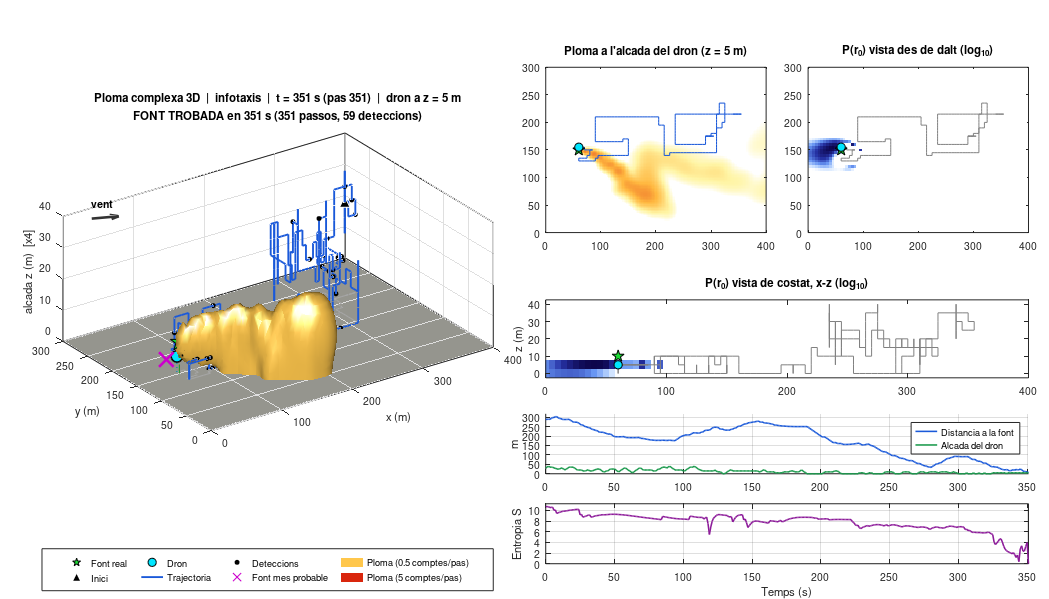
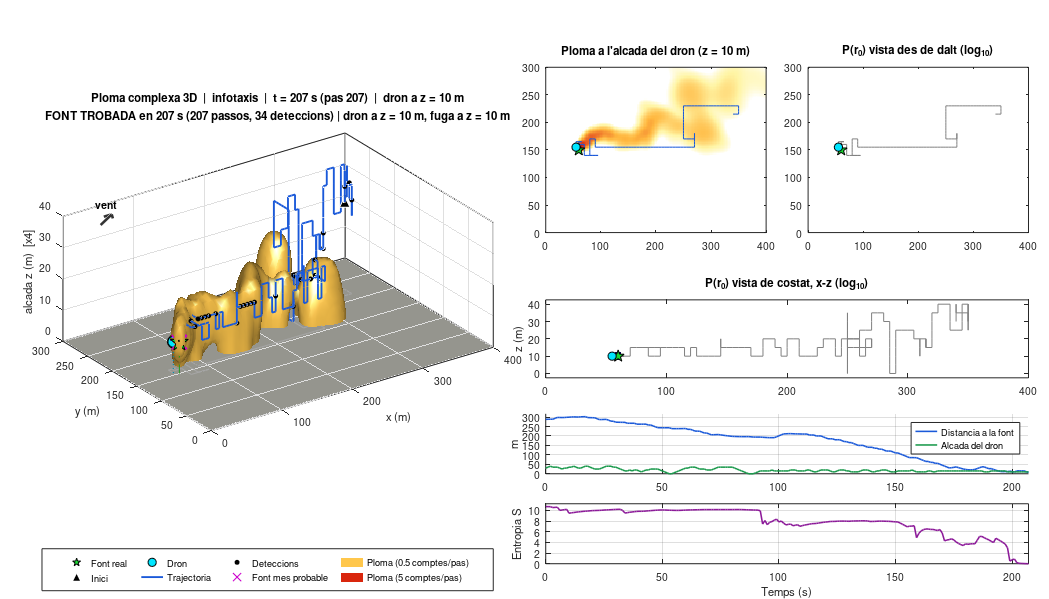
3D: el dron ha d'arribar a l'alcada de la fuga per trobar-la
Abans la fuga es donava per trobada dins d'una esfera de 7,5 m, que
incloia les capes d'alcada de sobre i de sota: la cerca acabava amb el
dron 5 m per sobre o per sota de la fuga (molt visible amb l'eix vertical
exagerat x4).

- La zona de deteccio passa a ser un cilindre: radiDeteccio en
  horitzontal (1,5*dx) i toleranciaAlcada en vertical (0 = mateixa
  alcada). L'infotaxis fa servir la mateixa zona per al terme
  d'explotacio i per descartar les zones visitades.
- El titol final i el resum mostren l'alcada del dron i de la fuga.
- Captures i resultats del README actualitzats (24/24 escenaris
  aleatoris trobats a l'alcada exacta).

Claude-Session: https://claude.ai/code/session_01GRWzQoTT7LeTEkbcwMeHqW

diff --git a/matlab3d/funcions3d/crear_domini_3d.m b/matlab3d/funcions3d/crear_domini_3d.m
@@ -33,15 +33,19 @@ dom.z3 = 0:r3(2):cfg.domini.Lz;
 % Moviments possibles [diy dix diz]: quiet, +x, -x, +y, -y, amunt, avall
 dom.moviments = [0 0 0; 0 1 0; 0 -1 0; 1 0 0; -1 0 0; 0 0 1; 0 0 -1];
 
-% Radi de deteccio (esfera): desplacaments de les cel.les que el dron "veu"
+% Zona de deteccio (cilindre): la fuga es troba si el dron hi es a menys
+% de radiDet en horitzontal i a menys de tolAlcada en vertical (per
+% defecte 0: ha de ser exactament a la mateixa alcada que la fuga).
+% Desplacaments [diy dix diz] de les cel.les d'aquesta zona:
 if isempty(cfg.dron.radiDeteccio)
     dom.radiDet = 1.5 * dx;
 else
     dom.radiDet = cfg.dron.radiDeteccio;
 end
+dom.tolAlcada = cfg.dron.toleranciaAlcada;
 mh = floor(dom.radiDet / dx);
-mv = floor(dom.radiDet / dz);
+mv = floor(dom.tolAlcada / dz + 1e-9);
 [DI, DJ, DK] = ndgrid(-mh:mh, -mh:mh, -mv:mv);
-dins = sqrt((DI * dx).^2 + (DJ * dx).^2 + (DK * dz).^2) <= dom.radiDet + 1e-9;
+dins = hypot(DI * dx, DJ * dx) <= dom.radiDet + 1e-9 & abs(DK * dz) <= dom.tolAlcada + 1e-9;
 dom.offDet = [DI(dins) DJ(dins) DK(dins)];
 end

diff --git a/matlab3d/funcions3d/simular_cerca_3d.m b/matlab3d/funcions3d/simular_cerca_3d.m
@@ -45,7 +45,7 @@ hist.mode = zeros(N + 1, 1);
 n = 1;
 hist.pos(n, :) = cella_a_posicio_3d(pos, dom);
 hist.dist(n)   = norm(hist.pos(n, :) - posFont);
-trobada = hist.dist(n) <= dom.radiDet + 1e-9;
+trobada = font_trobada_3d(hist.pos(n, :), posFont, dom);
 if ~trobada
     [hist, cerc] = mesurar_i_aprendre(alg, cerc, pl, pos, cfg, dom, hist, n);
 end
@@ -75,7 +75,7 @@ for t = 1:N
     hist.pos(n, :) = cella_a_posicio_3d(pos, dom);
     hist.dist(n)   = norm(hist.pos(n, :) - posFont);
 
-    if hist.dist(n) <= dom.radiDet + 1e-9
+    if font_trobada_3d(hist.pos(n, :), posFont, dom)
         trobada = true;
         hist.S(n) = 0;
     else

diff --git a/matlab3d/funcions3d/configuracio_defecte_3d.m b/matlab3d/funcions3d/configuracio_defecte_3d.m
@@ -28,7 +28,8 @@ cfg.font.pos          = [60 150 10];    % fuga a 10 m d'alcada (el dron NO ho sa
 cfg.dron.posInicial   = [340 215 30];   % el dron surt a 30 m d'alcada
 cfg.dron.velocitat    = 5;              % m/s  -> dt = dx / velocitat
 cfg.dron.maxPassos    = 2500;
-cfg.dron.radiDeteccio = [];             % m; [] = 1.5*dx
+cfg.dron.radiDeteccio = [];             % distancia horitzontal per trobar la fuga (m); [] = 1.5*dx
+cfg.dron.toleranciaAlcada = 0;          % diferencia d'alcada admesa (m); 0 = ha d'arribar a la mateixa alcada
 
 % =====================================================================
 %  VENT MITJA

diff --git a/matlab3d/funcions3d/visualitzacio_actualitzar_3d.m b/matlab3d/funcions3d/visualitzacio_actualitzar_3d.m
@@ -81,7 +81,8 @@ set(vis.ax6, 'XLim', [0 tmax]);
 linia1 = sprintf('Ploma %s 3D  |  %s  |  t = %.0f s (pas %d)  |  dron a z = %.0f m', ...
                  cfg.tipusPloma, alg, t(end), n - 1, p(3));
 if trobada
-    linia2 = sprintf('FONT TROBADA en %.0f s (%d passos, %d deteccions)', t(end), n - 1, sum(d));
+    linia2 = sprintf('FONT TROBADA en %.0f s (%d passos, %d deteccions) | dron a z = %.0f m, fuga a z = %.0f m', ...
+                     t(end), n - 1, sum(d), p(3), posFont(3));
 elseif final
     linia2 = sprintf('Font NO trobada (limit de passos). Distancia final: %.0f m', hist.dist(n));
 else

diff --git a/matlab3d/funcions3d/cel_les_properes_3d.m b/matlab3d/funcions3d/cel_les_properes_3d.m
@@ -1,6 +1,7 @@
 function idx = cel_les_properes_3d(q, dom)
-%CEL_LES_PROPERES_3D  Index lineal de les cel.les dins del radi de
-%   deteccio (esfera) al voltant de la cel.la q = [iy ix iz].
+%CEL_LES_PROPERES_3D  Index lineal de les cel.les de la zona de deteccio
+%   (cilindre) al voltant de la cel.la q = [iy ix iz]: les que el dron
+%   "veu" des d'alla. Vegeu crear_domini_3d.m.
 c = q + dom.offDet;
 c = c(c(:, 1) >= 1 & c(:, 1) <= dom.Ny & c(:, 2) >= 1 & c(:, 2) <= dom.Nx ...
       & c(:, 3) >= 1 & c(:, 3) <= dom.Nz, :);

diff --git a/matlab3d/main_simulacio_3d.m b/matlab3d/main_simulacio_3d.m
@@ -83,7 +83,8 @@ res = simular_cerca_3d(cfg);
 %% Resum
 fprintf('\n=============== RESULTAT ===============\n');
 if res.trobada
-    fprintf('Font TROBADA a [%.0f %.0f %.0f] m\n', res.cfg.font.pos);
+    fprintf('Font TROBADA a [%.0f %.0f %.0f] m (dron a [%.0f %.0f %.0f] m)\n', ...
+            res.cfg.font.pos, res.hist.pos(end, :));
 else
     fprintf('Font NO trobada (limit de %d passos)\n', cfg.dron.maxPassos);
 end

diff --git a/matlab3d/funcions3d/font_trobada_3d.m b/matlab3d/funcions3d/font_trobada_3d.m
@@ -1,0 +1,7 @@
+function t = font_trobada_3d(p, posFont, dom)
+%FONT_TROBADA_3D  true si el dron (a p = [x y z]) es dins de la zona de
+%   deteccio de la fuga: a menys de dom.radiDet en horitzontal i a menys
+%   de dom.tolAlcada en vertical.
+t = norm(p(1:2) - posFont(1:2)) <= dom.radiDet + 1e-9 && ...
+    abs(p(3) - posFont(3)) <= dom.tolAlcada + 1e-9;
+end

diff --git a/README.md b/README.md
@@ -202,7 +202,7 @@ L'infotaxis és més ràpid i més fiable, sobretot amb la ploma complexa, on el
 
 **Què canvia respecte de la 2D:**
 
-- **Domini:** volum de 400 × 300 × 40 m amb cel·les de 5 m. La fuga és per defecte a 10 m d'alçada (`cfg.font.pos = [60 150 10]`) i el dron surt a 30 m. El dron pot fer 7 accions: quedar-se quiet, ±x, ±y, pujar o baixar.
+- **Domini:** volum de 400 × 300 × 40 m amb cel·les de 5 m. La fuga és per defecte a 10 m d'alçada (`cfg.font.pos = [60 150 10]`) i el dron surt a 30 m. El dron pot fer 7 accions: quedar-se quiet, ±x, ±y, pujar o baixar. La fuga es dona per trobada quan el dron hi és a menys de 7,5 m en horitzontal i **a la mateixa alçada** (`cfg.dron.toleranciaAlcada = 0`; es pot permetre una diferència d'alçada posant-hi, per exemple, 5 m).
 - **Ploma gaussiana 3D:** la mateixa fórmula de Pasquill-Gifford, però ara el dron la mesura a l'alçada on vola. El terme de reflexió fa que el contaminant que toca el terra hi "reboti".
 - **Ploma complexa 3D:** els *puffs* són núvols gaussians 3D que:
   - es dispersen més en horitzontal que en vertical (l'atmosfera barreja menys en vertical);
@@ -224,14 +224,16 @@ L'infotaxis és més ràpid i més fiable, sobretot amb la ploma complexa, on el
 - **Al mig a la dreta:** el que sap el dron vist de costat (x-z). Aquí es veu com dedueix l'alçada de la fuga.
 - **A baix a la dreta:** la distància a la font, l'alçada del dron i l'entropia o els comptes.
 
-**Resultats típics (3D, 3 realitzacions):**
+**Resultats típics (3D, escenari fix, 3 realitzacions; en tots els èxits el dron acaba a l'alçada exacta de la fuga):**
 
 | Ploma | Algorisme | Èxit | Temps de cerca |
 |---|---|---|---|
-| gaussiana | infotaxis | 3/3 | 180 – 200 s |
+| gaussiana | infotaxis | 3/3 | 170 – 210 s |
 | gaussiana | gradient | 3/3 | 500 – 880 s |
-| complexa | infotaxis | 3/3 | 335 – 420 s |
+| complexa | infotaxis | 3/3 | 205 – 355 s |
 | complexa | gradient | 2/3 | 1530 – 2300 s (o no la troba) |
+
+Amb 12 escenaris aleatoris per ploma, l'infotaxis 3D troba la fuga, a la seva alçada, en tots 24.
 
 L'infotaxis 3D és més costós de calcular que el 2D (unes 44.000 cel·les en lloc de 5.000). Si l'animació va lenta, puja `cfg.visual.cadaNPassos`. `comparativa_montecarlo_3d.m` fa l'estadística en 3D.
 
